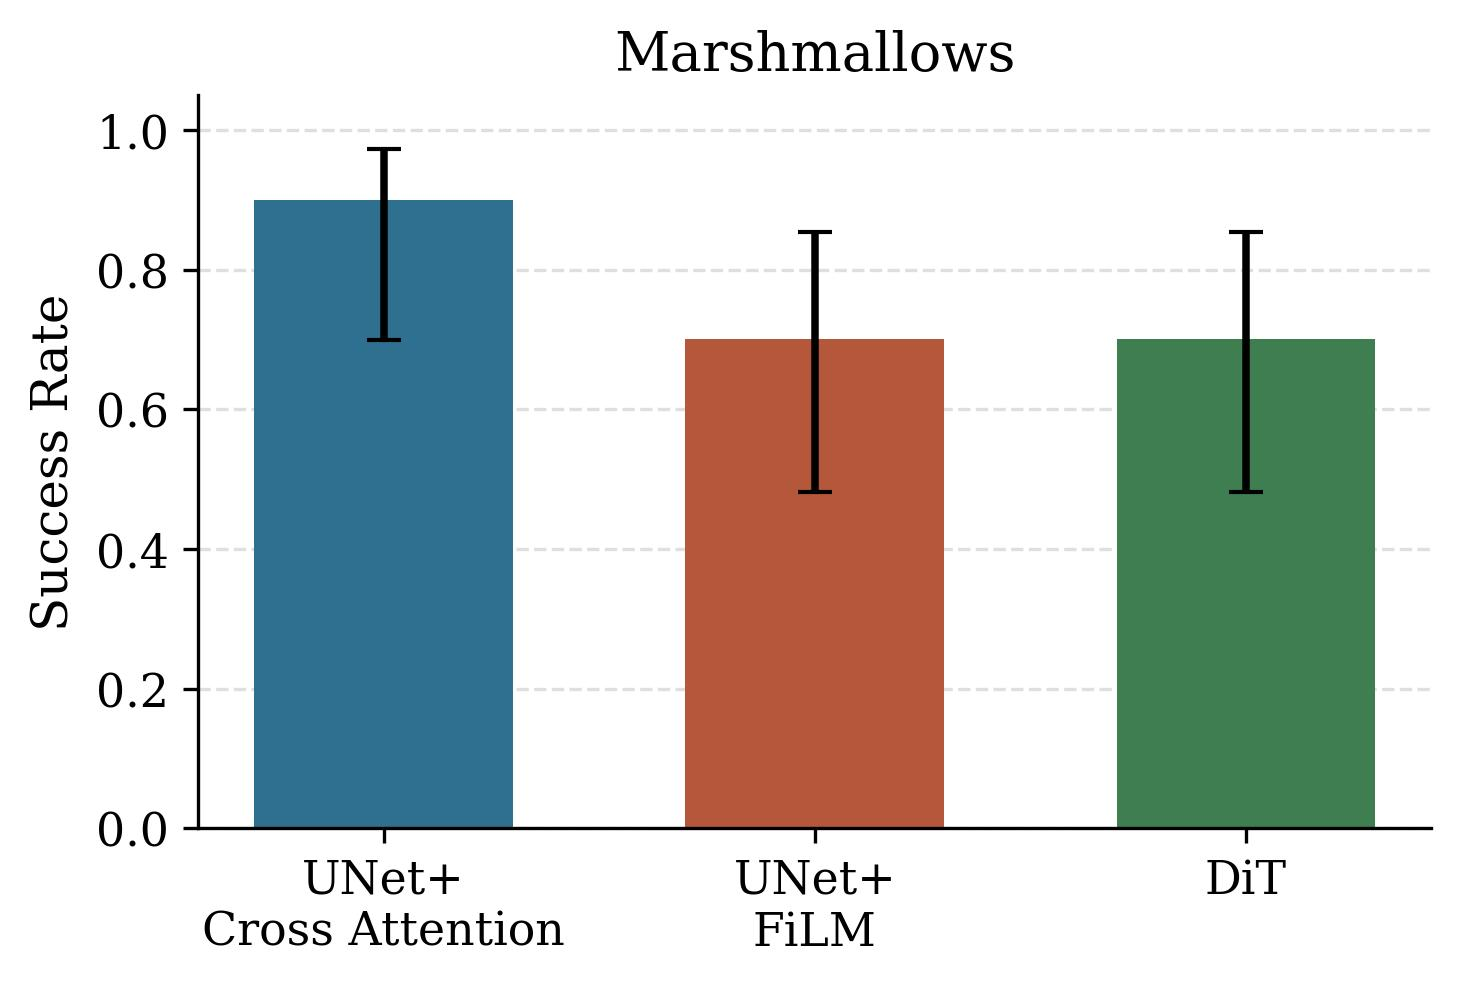
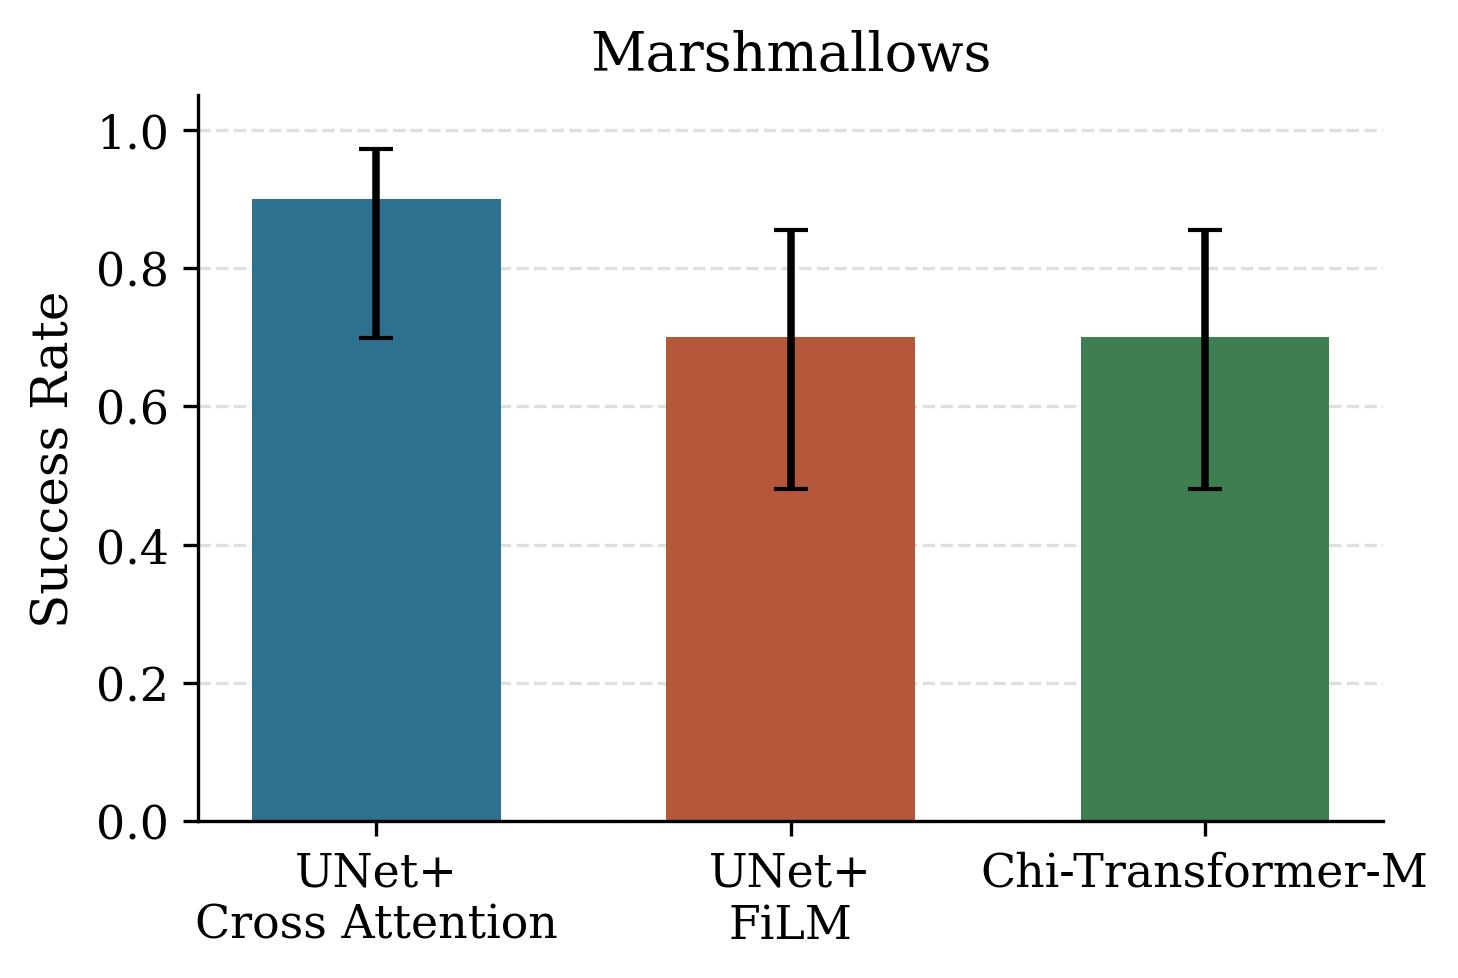
Rename DiT architecture; trim training details; update hardware figure

diff --git a/appendix-policy-task-details.html b/appendix-policy-task-details.html
@@ -53,7 +53,7 @@
     each of these images into latent embeddings. <em>Note that the same vision backbone is used for
     all timesteps for each camera stream.</em> These embeddings, concatenated with the diffusion
     timestep embedding and robot proprioception, are passed to the downstream model for conditioning.
-    Common choices for the downstream conditioning model are <b>UNet</b> and <b>DiT</b>. Various
+    Common choices for the downstream conditioning model are <b>UNet</b> and <b>Transformer</b>. Various
     methods like FiLM (Perez et al., 2017) and cross-attention can be applied to merge the
     conditioning with the denoiser.</p>
 
@@ -62,9 +62,9 @@
     scratch for our policies, with random weight initialization.</p>
 
     <h2>B. Comparison of Diffusion Policy Architectures</h2>
-    <p>Diffusion Policy was presented with the <b>UNet+FiLM</b> and <b>DiT</b> architectures in the
+    <p>Diffusion Policy was presented with the <b>UNet+FiLM</b> and <b>Chi-Transformer</b> architectures in the
     original work. For single-task RGB policies with short context lengths, <b>UNet+FiLM</b>
-    outperformed the <b>DiT</b> model for the given design choices and hyperparameters. Therefore, it
+    outperformed the <b>Chi-Transformer</b> model for the given design choices and hyperparameters. Therefore, it
     became the choice for many works building on diffusion policy. In this work, we suggest using
     <b>UNet+Cross-Attention</b> as the method for training single-task long-context diffusion policies
     from scratch in the limited-data regime.</p>
@@ -86,11 +86,11 @@
       embedding is projected to matching dimension. A position encoding is added. Each of these
       embeddings is then individually projected to intermediate UNet layer dimensions, and
       cross-attended to with the intermediate UNet layers.</li>
-      <li><b>DiT</b>: The action denoising backbone is now provided by transformer decoder layers as
+      <li><b>Chi-Transformer</b>: The action denoising backbone is now provided by transformer decoder layers as
       opposed to UNet. Conditioning is merged via cross-attention.</li>
     </ul>
 
-    <p>We note that the <b>DiT</b> model from the original work, as well as from key long-context
+    <p>We note that the <b>Chi-Transformer</b> model from the original work, as well as from key long-context
     learning work from Torne et al. (2025), uses hyperparameters which result in a model significantly
     smaller in size than other choices. If we use their hyperparameters, we notice extremely low
     success rates in some tasks even with short context lengths. Very specifically, we notice
@@ -98,11 +98,11 @@
     implemented in Drake. We therefore add more decoder layers, providing the model a number of
     parameters similar in magnitude to the other architectures we have used.</p>
 
-    <p>Moreover, a key change in our experiments for <b>DiT</b> is not using causal attention within
+    <p>Moreover, a key change in our experiments for <b>Chi-Transformer</b> is not using causal attention within
     the action chunk. Both Chi et al. (2024) and Torne et al. (2025) apply causal attention within an
     action chunk as it is denoised (so earlier elements of the action chunk cannot be influenced by
     later elements). We remove this flag, to make the flow of information more comparable to that of
-    the <b>UNet</b>. Finally, we evaluate the <b>DiT</b> with additional steps of sampling compared to
+    the <b>UNet</b>. Finally, we evaluate the <b>Chi-Transformer</b> with additional steps of sampling compared to
     the UNet models, to eliminate the possibility of sampling error driving the difference in
     performance.</p>
 
@@ -110,52 +110,20 @@
     cross-attention instead of FiLM has been used in computer vision before (Rombach et al., 2022).</p>
 
     <h2>C. Training Details and Hyperparameters</h2>
-    <h3>C.1 Checkpoint Selection</h3>
-    <p>We designate a maximum number of training steps for each task based on approximate policy
-    performance to convergence for short-context policies at <span class="m">N</span> training
-    trajectories. We then train policies with all context lengths for that task to those many training
-    steps, saving the top 5 checkpoints with respect to validation loss, the top 5 checkpoints with
-    respect to action-matching validation loss, and 3 evenly spaced checkpoints toward the end of
-    training. We then evaluate each checkpoint, and the highest success rate among checkpoints is
-    reported as the success rate for the training run. For our hardware evaluation on the
-    <b>marshmallows</b> task, we simply use the latest checkpoint.</p>
-
-    <p>We train all <b>push-T</b> policies for 150k steps; <b>marshmallows</b>, <b>square</b>,
-    <b>lift</b>, and <b>push-and-return</b> policies for 200k steps; and <b>grasp-and-return</b>
-    policies for 100k steps. We start with a learning rate of <code>1e-4</code> and use
-    <code>cosine</code> decay. For some policies (like <b>UNet+FiLM</b> and <b>UNet+Cross-Attention</b>
-    on <b>push-T</b>, and <b>UNet+FiLM</b> on <b>push-and-return</b>), we only save the latest
-    checkpoint as opposed to 3 recent toward the end, because the results are largely insensitive to
-    this choice and we did not rerun these configurations due to the high computational cost. We did
-    rerun it for the <span class="m">N</span> data regime in <b>push-and-return</b> for
-    <b>UNet+FiLM</b>, and found the presented trends to be consistent.</p>
-
-    <p>We notice in our work that policies with different context lengths can sometimes converge in a
-    different number of training steps. For instance, we usually notice that especially with
-    <span class="m">N/2</span> trajectories, some policies often converge slightly sooner than those
-    for <span class="m">N</span> and <span class="m">2N</span> &mdash; an effect that is more pronounced
-    at longer context lengths. We believe earlier checkpoints at longer context lengths in the low
-    data regime help mitigate the impact of over-fitting.</p>
-
-    <p>Each reported success rate is from one training run. While we do account for uncertainty in the
-    binary task success, we do not, in this work, account for uncertainty in training randomness. Due
-    to limited availability of resources and the high amount of training time needed to produce a study
-    of this magnitude, such a choice is consistent with prior work.</p>
-
-    <h3>C.2 Hyperparameters</h3>
+    <h3>C.1 Hyperparameters</h3>
     <p>In Table&nbsp;1 we present the hyperparameters used for the main results. By design, FiLM
     conditioning model size changes considerably as context length is increased. On the contrary,
-    <b>UNet+Cross-Attention</b> and <b>DiT</b> have similar model sizes across context lengths due to
+    <b>UNet+Cross-Attention</b> and <b>Chi-Transformer-M</b> have similar model sizes across context lengths due to
     the manner of applying conditioning. We choose the size of the cross-attention model to be roughly
-    halfway between the smallest and largest used FiLM model. For <b>DiT</b>, we get a model comparable
-    in size to the cross-attention model after adding significantly more layers.</p>
+    halfway between the smallest and largest used FiLM model. <b>Chi-Transformer-M</b> is derived from 
+    <b>Chi-Transformer</b> by adding more layers, higher embedding dimension, and removing causal attention.</p>
 
     <div class="apx-tablewrap">
     <table>
       <caption><span class="fignum">Table 1.</span> Architecture-specific hyperparameters for the three
       denoisers. Values not applicable to a given architecture are marked &ldquo;&ndash;&rdquo;.</caption>
       <thead>
-        <tr><th></th><th class="num">UNet+FiLM</th><th class="num">UNet+xAttn</th><th class="num">DiT</th></tr>
+        <tr><th></th><th class="num">UNet+FiLM</th><th class="num">UNet+xAttn</th><th class="num">Chi-Transformer-M</th></tr>
       </thead>
       <tbody>
         <tr class="grouprow"><td colspan="4">Denoiser core</td></tr>
